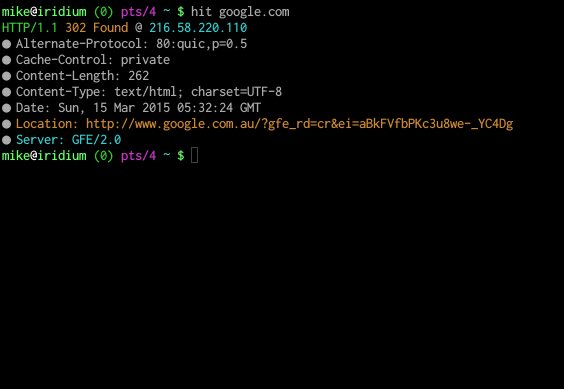
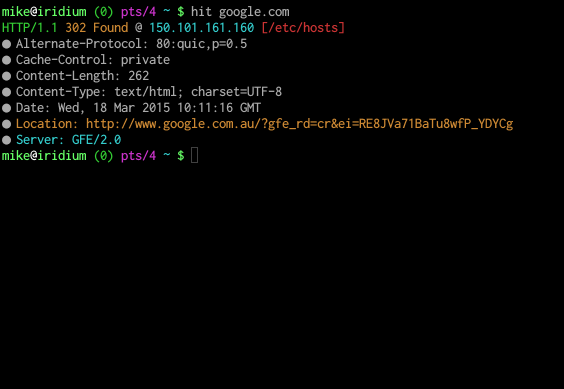
Check for /etc/hosts usage.

diff --git a/src/main.rs b/src/main.rs
@@ -14,6 +14,7 @@ along with this program.  If not, see <http://www.gnu.org/licenses/>.
 
 #![feature(core)]
 #![feature(net)]
+#![feature(str_words)]
 
 extern crate core;
 extern crate hyper;
@@ -21,6 +22,9 @@ extern crate url;
 extern crate ansi_term;
 
 use std::env;
+use std::fs::File;
+use std::io::BufReader;
+use std::io::BufRead;
 use hyper::status::StatusCode;
 use hyper::status::StatusClass::{Success,Redirection,ClientError,ServerError};
 use hyper::version::HttpVersion::{Http09,Http10,Http11,Http20};
@@ -75,6 +79,39 @@ fn lookup_ips(domain: String) -> std::io::Result<String> {
     Ok(ips[0].clone())
 }
 
+fn domain_in_hosts(domain: &String) -> bool {
+    let file = match File::open("/etc/hosts") {
+        Ok(file) => file,
+        Err(..) => return false,
+    };
+
+    let buffer = BufReader::new(&file);
+
+    for line in buffer.lines() {
+
+        if line.is_err() {
+            continue;
+        }
+
+        let entry: &str = &line.unwrap();
+
+        let mut elements: Vec<&str> = entry.words().collect();
+
+        // skip commented lines
+        if elements.len() > 0 && (*elements.remove(0)).starts_with("#") {
+            continue;
+        }
+
+        for e in elements {
+            if e == *domain {
+                return true;
+            }
+        }
+    }
+
+    false
+}
+
 fn main() {
     let args: Vec<String> = env::args().collect();
     if args.len() != 2 {
@@ -98,6 +135,12 @@ fn main() {
 
     let domain = url.domain().unwrap().to_string();
 
+    let hosts_hack = if domain_in_hosts(&domain) {
+        Red.paint(" [/etc/hosts]").to_string()
+    } else {
+        "".to_string()
+    };
+
     let ip_address = match lookup_ips(domain.to_string()) {
         Ok(a) => a,
         Err(b) => {
@@ -113,7 +156,7 @@ fn main() {
 
     match res {
         Ok(y) => {
-            println!("{} {} @ {}", color_version(y.version), color_status(y.status), Cyan.paint(&ip_address).to_string());
+            println!("{} {} @ {}{}", color_version(y.version), color_status(y.status), Cyan.paint(&ip_address).to_string(), hosts_hack);
 
             let mut headers: Vec<(String, String)> = Vec::new();
 
